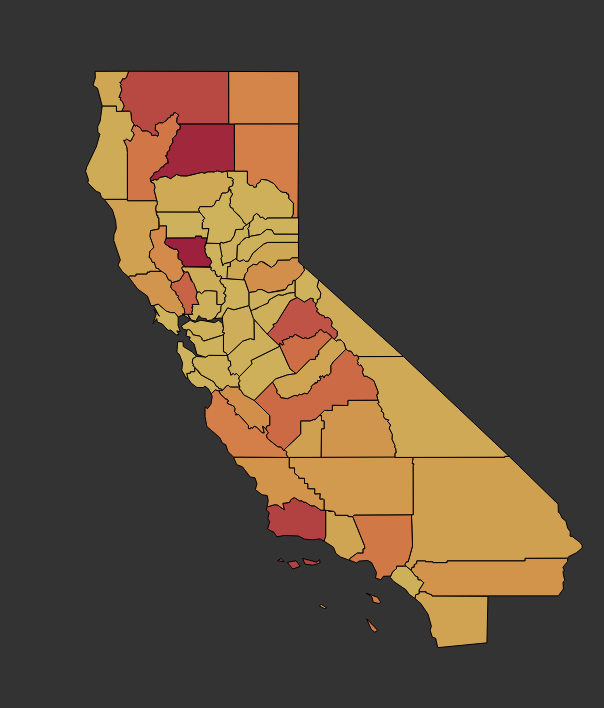
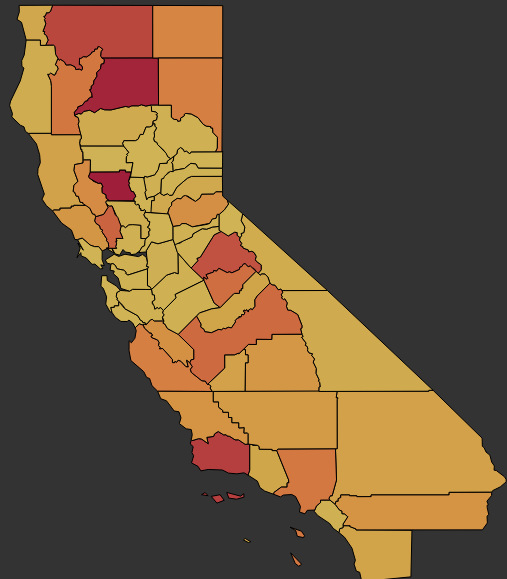
cropped image

Changed region(s): [[0.0, 0.0, 1.0, 1.0], [0.5621, 0.9637, 0.5917, 0.9948]]

diff --git a/README.md b/README.md
@@ -7,7 +7,7 @@
    Our project provides a detailed analysis of all these factors and it can be used to expand the research for other states
    that pose a threat of wildfires.
    
-   ![](./Images/CA_map.png)
+   ![](./Images/CA_Map.png)
 
 
 ## Preliminary Data Preprocessing
